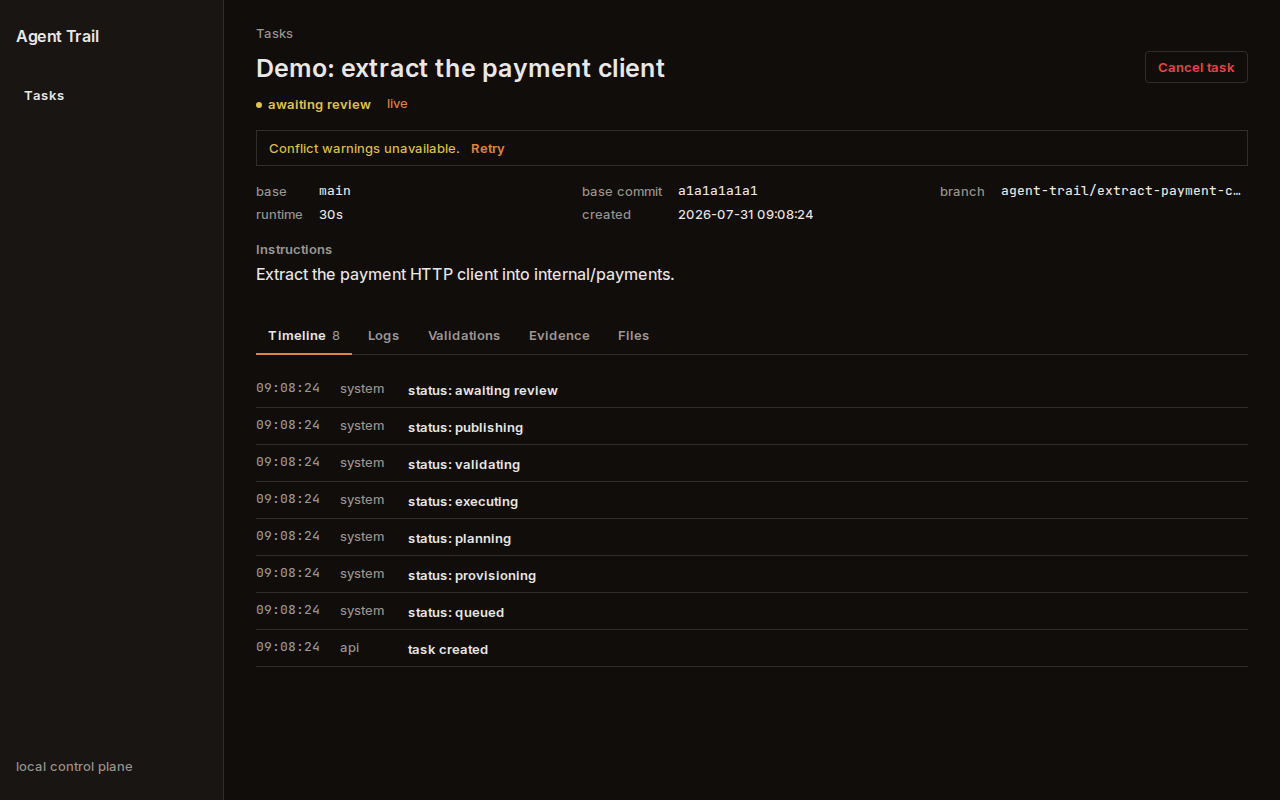
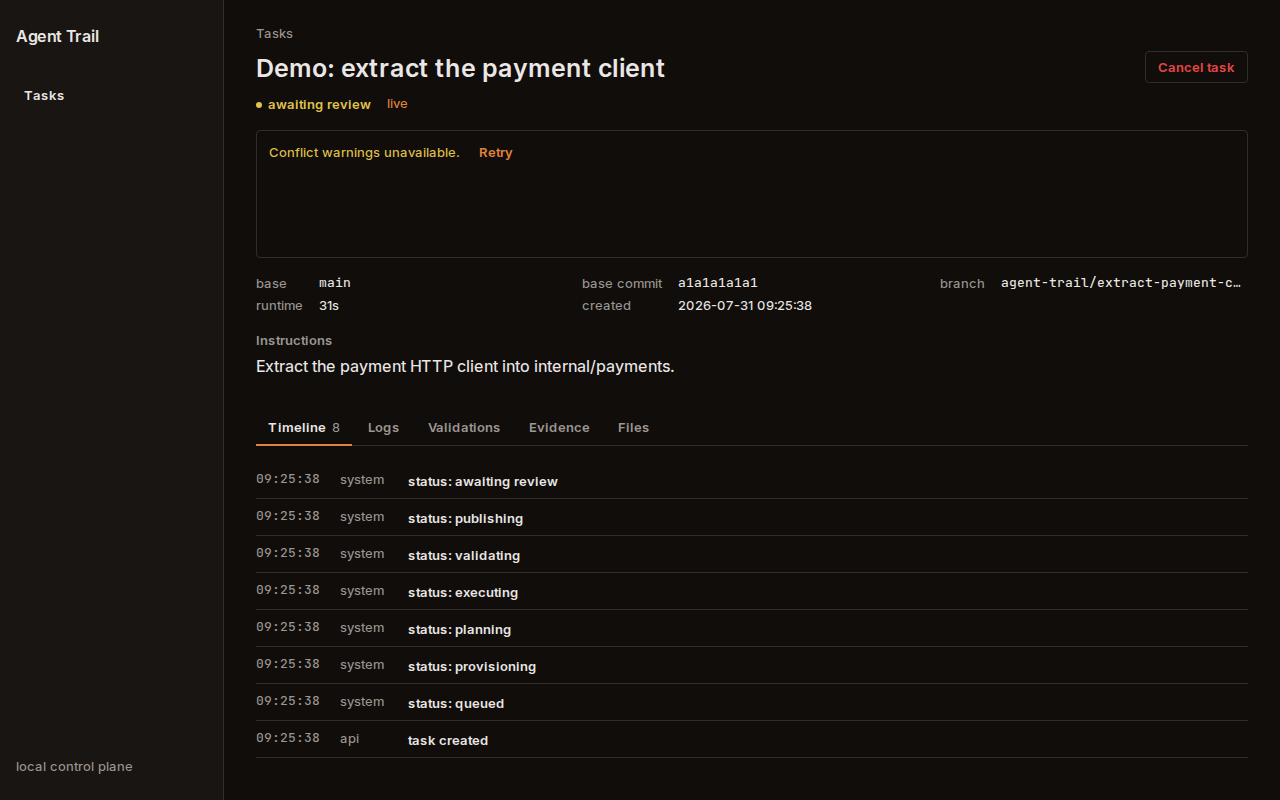
fix(web): stabilize conflict warning states

diff --git a/apps/web/app/tasks/[taskId]/page.tsx b/apps/web/app/tasks/[taskId]/page.tsx
@@ -137,9 +137,12 @@ export default function TaskPage({
 
   useEffect(() => {
     if (taskEventCount === 0) return;
-    const refresh = setTimeout(() => void loadTask(), 0);
+    const refresh = setTimeout(
+      () => void Promise.all([loadTask(), loadConflicts()]),
+      0,
+    );
     return () => clearTimeout(refresh);
-  }, [taskEventCount, loadTask]);
+  }, [taskEventCount, loadTask, loadConflicts]);
   useEffect(() => {
     if (validationEventCount === 0) return;
     const refresh = setTimeout(() => void loadValidations(), 0);
@@ -268,27 +271,38 @@ function TaskDetail({
             {task.failure_message ?? "No failure detail was recorded."}
           </p>
         ) : null}
-        {conflicts.phase === "loading" && (
-          <p className="mt-4 text-sm text-muted">Checking task overlaps...</p>
-        )}
-        {conflicts.phase === "error" && (
-          <div
-            role="alert"
-            className="mt-4 flex items-baseline gap-3 border border-border px-3 py-2 text-sm"
-          >
-            <span className="text-warning">Conflict warnings unavailable.</span>
-            <button
-              type="button"
-              onClick={onRetryConflicts}
-              className="font-semibold text-accent hover:underline"
+        <div className="mt-4 h-32">
+          {conflicts.phase === "loading" && (
+            <p className="h-full rounded border border-border px-3 py-3 text-sm text-muted">
+              Checking task overlaps...
+            </p>
+          )}
+          {conflicts.phase === "error" && (
+            <div
+              role="alert"
+              className="flex h-full items-start gap-3 rounded border border-border px-3 py-2 text-sm"
             >
-              Retry
-            </button>
-          </div>
-        )}
-        {conflicts.phase === "ready" && (
-          <ConflictWarning conflicts={conflicts.items} />
-        )}
+              <span className="py-1 text-warning">
+                Conflict warnings unavailable.
+              </span>
+              <button
+                type="button"
+                onClick={onRetryConflicts}
+                className="rounded px-2 py-1 font-semibold text-accent hover:bg-surface hover:underline"
+              >
+                Retry
+              </button>
+            </div>
+          )}
+          {conflicts.phase === "ready" && conflicts.items.length === 0 && (
+            <p className="h-full rounded border border-border px-3 py-3 text-sm text-muted">
+              No active task overlaps detected.
+            </p>
+          )}
+          {conflicts.phase === "ready" && conflicts.items.length > 0 && (
+            <ConflictWarning conflicts={conflicts.items} />
+          )}
+        </div>
 
         <dl className="mt-4 grid grid-cols-[auto_1fr_auto_1fr] gap-x-4 gap-y-1 text-sm lg:grid-cols-[auto_1fr_auto_1fr_auto_1fr]">
           {task.source_issue_number !== null && (

diff --git a/apps/web/e2e/07-conflicts.spec.ts b/apps/web/e2e/07-conflicts.spec.ts
@@ -43,6 +43,9 @@ test("a task without stored conflicts shows no warning", async ({ page }) => {
 
   await expect(page.getByText("Instructions")).toBeVisible();
   await expect(page.getByLabel("Conflict warnings")).toHaveCount(0);
+  await expect(
+    page.getByText("No active task overlaps detected."),
+  ).toBeVisible();
   await shootBothViewports(page, "07-conflict-empty");
 });
 
@@ -61,14 +64,24 @@ test("conflict warning loading state", async ({ page }) => {
 
 test("conflict warning error state", async ({ page }) => {
   const a = await apiTaskByTitle(TASK_A);
-  await page.route("**/backend/api/v1/tasks/*/conflicts", (route) =>
-    route.abort(),
-  );
+  let unavailable = true;
+  await page.route("**/backend/api/v1/tasks/*/conflicts", async (route) => {
+    if (unavailable) {
+      await route.abort();
+      return;
+    }
+    await route.continue();
+  });
   await page.goto(`/tasks/${a.id}`);
 
   await expect(page.getByText("Conflict warnings unavailable.")).toBeVisible();
-  await expect(page.getByRole("button", { name: "Retry" })).toBeVisible();
+  const retry = page.getByRole("button", { name: "Retry" });
+  await expect(retry).toBeVisible();
   await shootBothViewports(page, "07-conflict-error");
+
+  unavailable = false;
+  await retry.click();
+  await expect(page.getByLabel("Conflict warnings")).toBeVisible();
 });
 
 test("conflict warning handles long content", async ({ page }) => {

diff --git a/apps/web/components/ConflictWarning.tsx b/apps/web/components/ConflictWarning.tsx
@@ -18,7 +18,7 @@ export function ConflictWarning({ conflicts }: { conflicts: TaskConflict[] }) {
   return (
     <section
       aria-label="Conflict warnings"
-      className="mt-4 rounded border border-border"
+      className="h-full overflow-y-auto rounded border border-border"
     >
       <h2 className="flex items-center gap-1.5 px-3 pt-2.5 text-sm font-semibold text-warning">
         <span
